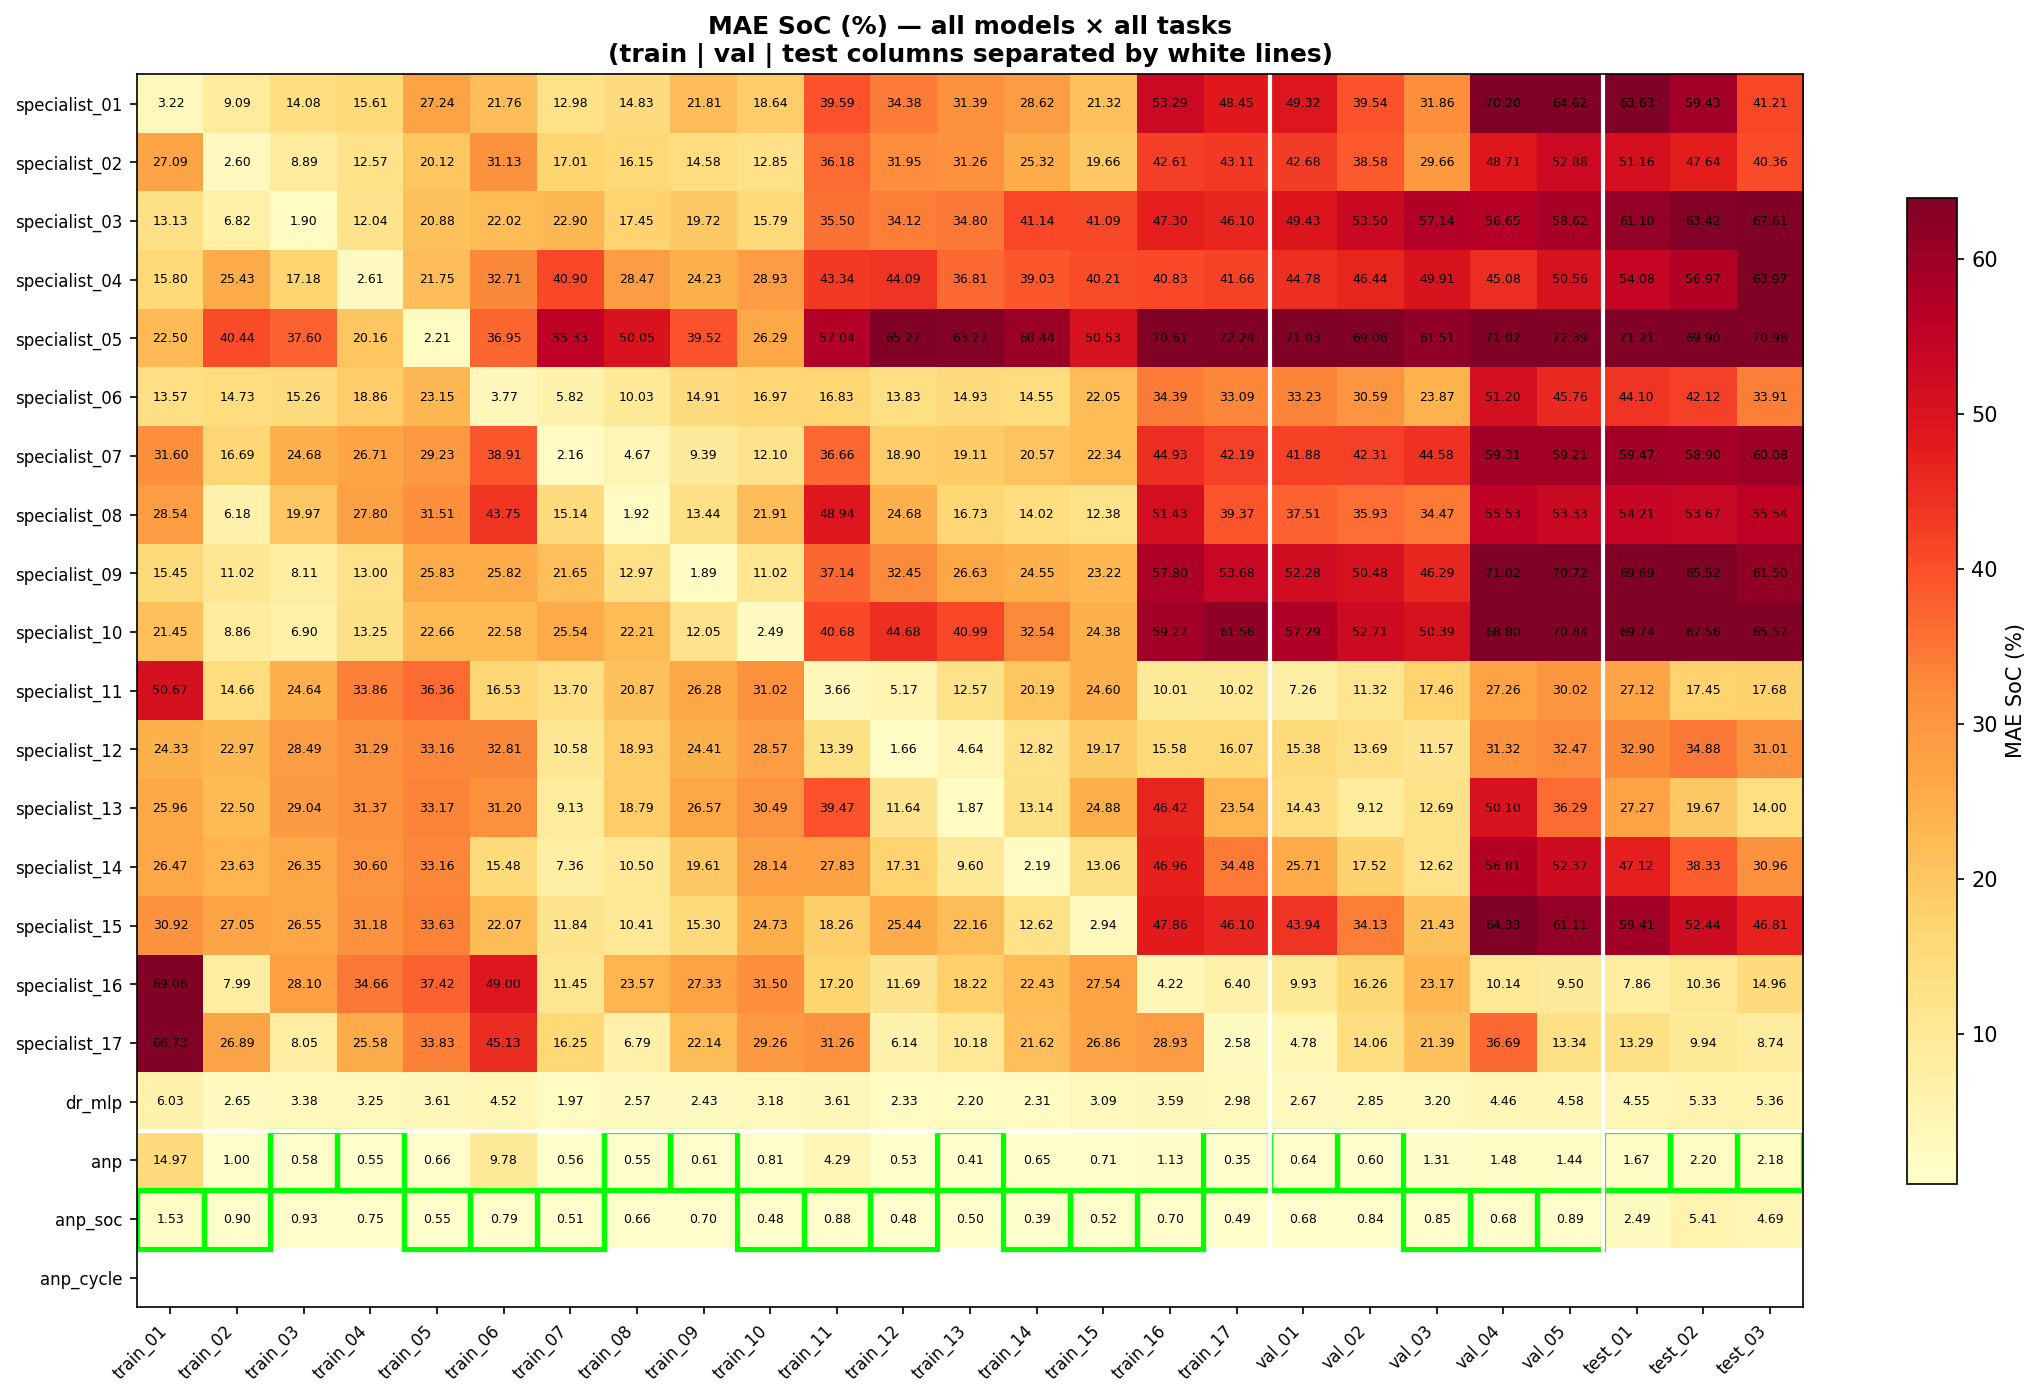
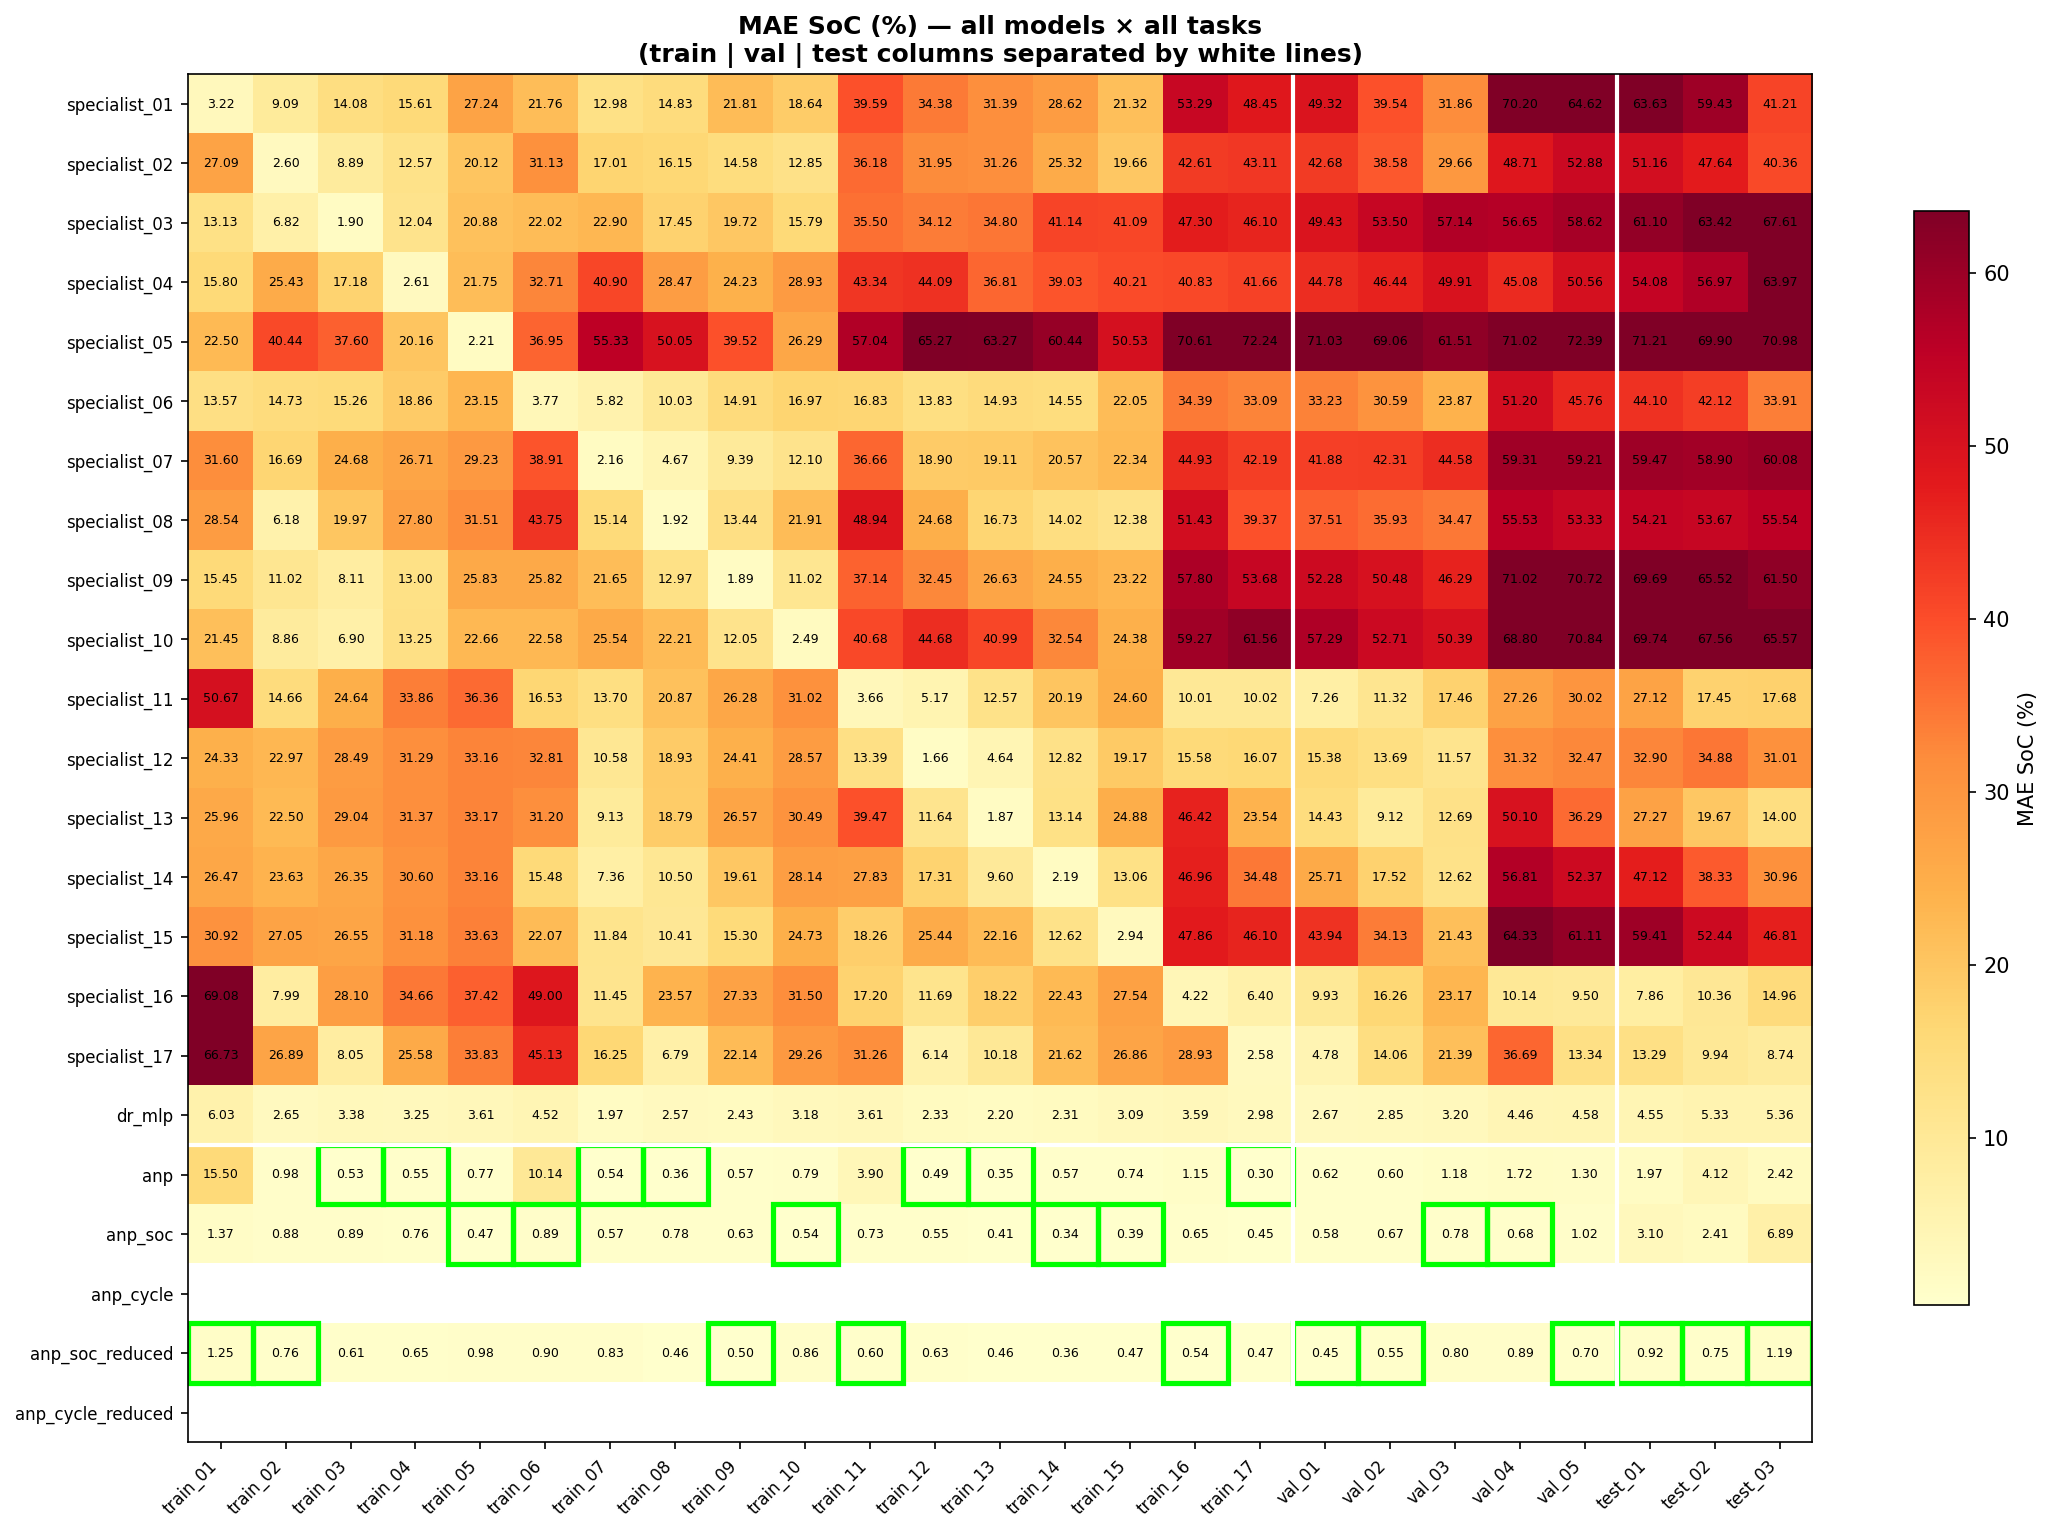
Update evaluation results and training utilities
- Updated binary image files for bar_cycle.png and bar_soc.png.
- Modified mae_Cycle.csv and mae_SoC_pct.csv to include new metrics and adjusted values for ANP and its variants.
- Enhanced mae_comparison.csv with updated values for ANP and added new rows for reduced feature sets.
- Updated summary.txt to reflect changes in ANP metrics and added entries for reduced feature sets.
- Updated binary image files for mae_cycle_heatmap.png and mae_soc_heatmap.png.
- Added new utility functions in train_utils.py for feature index retrieval and filtering.

diff --git a/csic/evaluate/evaluate.py b/csic/evaluate/evaluate.py
@@ -29,11 +29,13 @@ Outputs (saved to --out_dir, default ./validation/<timestamp>/):
 
 Usage:
     python evaluate.py \
-        --mlp_run       ../train/runs_mlp/20260511_121741 \
-        --anp_run       ../train/runs/anp_all_20260512_124715 \
-        --anp_soc_run   "../train/runs/anp_SoC(pct)_20260512_114601" \
-        --anp_cycle_run ../train/runs/anp_Cycle_20260512_114703 \
-        --data_dir      ../csic_real_synth_load/prepared_data
+        --mlp_run           ../train/runs_mlp/20260511_121741 \
+        --anp_run           ../train/runs/anp_all/20260512_124715 \
+        --anp_soc_run       ../train/runs/anp_SoC/20260512_114601 \
+        --anp_cycle_run     ../train/runs/anp_Cycle/20260512_114703 \
+        --anp_soc_reduced_run   ../train/runs/anp_SoC_reduced/20260513_110544 \
+        --anp_cycle_reduced_run ../train/runs/anp_Cycle_reduced/20260513_114323 \
+        --data_dir          ../csic_real_synth_load/prepared_data
 
 Location: csic/validation/evaluate.py
 ==============================================================================
@@ -71,6 +73,9 @@ from train.train_utils import (
     validate_targets,
     get_task_splits,
     sort_task_by_cycle,
+    REDUCED_FEATURE_SETS,
+    get_feature_indices,
+    filter_x,
 )
 
 # Import model architectures
@@ -242,24 +247,11 @@ def load_anp_model(
     all_target_cols:  List[str],
     device:           torch.device,
     label:            str = "anp",
-) -> Optional[Tuple[str, nn.Module, List[str]]]:
+) -> Optional[Tuple[str, nn.Module, List[str], Optional[List[str]]]]:
     """
-    Load an ANP checkpoint and detect which targets it was trained on.
-
-    Reads config.json for num_hidden, attn_dropout, and target_col.
-    Handles both dual-target and single-target checkpoints transparently.
-
-    Args:
-        run_dir:         Path to the run directory containing best.pt.
-        input_dim:       Number of input features (from the pkl).
-        all_target_cols: All target columns present in the data (e.g. ['SoC (%)', 'Cycle']). 
-                         Used to determine model output_dim when target_col is known.
-        device:          Torch device.
-        label:           Display label used in result tables and plots.
-
-    Returns:
-        (label, model, model_target_cols) tuple, or None if not found.
-        model_target_cols is the subset of all_target_cols this model predicts.
+    Load an ANP checkpoint and detect which targets and features it was trained on.
+    Returns (label, model, model_target_cols, feature_cols) or None if not found.
+    feature_cols is None for full-feature models, or a list of column names for reduced-feature models.
     """
     ckpt_path = run_dir / "best.pt"
     cfg_path  = run_dir / "config.json"
@@ -268,10 +260,10 @@ def load_anp_model(
         print(f"  ⚠  {label}: best.pt not found at {ckpt_path} — skipping")
         return None
 
-    # Read architecture params from config
     num_hidden   = 128
     attn_dropout = 0.1
-    target_col   = "all"   # default: dual-target
+    target_col   = "all"
+    use_reduced  = False
 
     if cfg_path.exists():
         with cfg_path.open() as f:
@@ -280,6 +272,7 @@ def load_anp_model(
                         or cfg_data.get("params", {}).get("num_hidden", 128))
         attn_dropout = cfg_data.get("attn_dropout", 0.1)
         target_col   = cfg_data.get("target_col", "all")
+        use_reduced  = cfg_data.get("use_reduced_features", False)
 
     # Determine which targets this model predicts
     if target_col == "all":
@@ -287,22 +280,19 @@ def load_anp_model(
     elif target_col in all_target_cols:
         model_target_cols = [target_col]
     else:
-        # Fallback: infer from checkpoint output_dim
-        ckpt = torch.load(ckpt_path, map_location="cpu")
-        # Peek at the decoder output layer weight shape
-        out_dim_key = [k for k in ckpt["model"] if "mean_projection" in k
-                       and "weight" in k]
-        if out_dim_key:
-            out_dim = ckpt["model"][out_dim_key[0]].shape[0]
-            model_target_cols = all_target_cols[:out_dim]
-        else:
-            model_target_cols = all_target_cols
+        raw = torch.load(ckpt_path, map_location="cpu")
+        out_keys = [k for k in raw["model"] if "mean_projection" in k and "weight" in k]
+        out_dim  = raw["model"][out_keys[0]].shape[0] if out_keys else len(all_target_cols)
+        model_target_cols = all_target_cols[:out_dim]
 
-    output_dim = len(model_target_cols)
+    # Determine which X features this model was trained on
+    feature_cols    = REDUCED_FEATURE_SETS.get(target_col) if use_reduced else None
+    model_input_dim = len(feature_cols) if feature_cols is not None else input_dim
+    output_dim      = len(model_target_cols)
 
     model = LatentModel(
         num_hidden=num_hidden,
-        input_dim=input_dim,
+        input_dim=model_input_dim,
         output_dim=output_dim,
         attn_dropout=attn_dropout,
     )
@@ -311,9 +301,10 @@ def load_anp_model(
     model.eval().to(device)
 
     val_mae = ckpt.get("val_MAE", ckpt.get("val_loss", "?"))
+    feat_str = f"reduced({model_input_dim})" if feature_cols else f"all({input_dim})"
     print(f"  ✓  {label:<22} targets={model_target_cols}  "
-          f"num_hidden={num_hidden}  val_MAE={val_mae}")
-    return (label, model, model_target_cols)
+          f"num_hidden={num_hidden}  features={feat_str}  val_MAE={val_mae}")
+    return (label, model, model_target_cols, feature_cols)
 
 
 # ==============================================================================
@@ -558,6 +549,8 @@ def run(
     anp_run_dir:     Optional[Path],
     anp_soc_run_dir: Optional[Path],
     anp_cycle_run_dir: Optional[Path],
+    anp_soc_reduced_run_dir: Optional[Path],
+    anp_cycle_reduced_run_dir: Optional[Path],
     data_dir:        str,
     out_dir:         Path,
     train_task_ids:  List[int],
@@ -610,6 +603,7 @@ def run(
     }
     print(f"   input_dim={input_dim}  output_dim={output_dim}  targets={target_cols}")
 
+    x_col_names = list(data["normalized_synth_datasets"][0][0].columns)
     # All 25 tasks evaluated
     all_task_ids = list(range(len(data["normalized_synth_datasets"])))
     all_tasks    = [
@@ -638,7 +632,7 @@ def run(
     # Each entry: (label, model, type, model_target_cols)
     # type ∈ {"mlp", "anp"}
     # model_target_cols: which targets the model predicts
-    all_models: List[Tuple[str, nn.Module, str, List[str]]] = []
+    all_models: List[Tuple[str, nn.Module, str, List[str], Optional[List[str]]]] = []
 
     # MLP Specialists
     specialists = load_mlp_specialists(
@@ -646,18 +640,18 @@ def run(
         n_specialists=len(train_task_ids),
     )
     for label, model in specialists:
-        all_models.append((label, model, "mlp", target_cols))
+        all_models.append((label, model, "mlp", target_cols, None))
 
     # DR-MLP
     dr = load_dr_mlp(mlp_run_dir, input_dim, output_dim, device)
     if dr:
-        all_models.append((dr[0], dr[1], "mlp", target_cols))
+        all_models.append((dr[0], dr[1], "mlp", target_cols, None))
 
     # ANP dual-target
     if anp_run_dir is not None:
         anp = load_anp_model(anp_run_dir, input_dim, target_cols, device, label="anp")
         if anp:
-            all_models.append((anp[0], anp[1], "anp", anp[2]))
+            all_models.append((anp[0], anp[1], "anp", anp[2], anp[3]))
 
     # ANP SoC-only
     if anp_soc_run_dir is not None:
@@ -665,7 +659,8 @@ def run(
             anp_soc_run_dir, input_dim, target_cols, device, label="anp_soc"
         )
         if anp_soc:
-            all_models.append((anp_soc[0], anp_soc[1], "anp", anp_soc[2]))
+            all_models.append((anp_soc[0], anp_soc[1], "anp", anp_soc[2], anp_soc[3]))
+
 
     # ANP Cycle-only
     if anp_cycle_run_dir is not None:
@@ -673,7 +668,27 @@ def run(
             anp_cycle_run_dir, input_dim, target_cols, device, label="anp_cycle"
         )
         if anp_cyc:
-            all_models.append((anp_cyc[0], anp_cyc[1], "anp", anp_cyc[2]))
+            all_models.append((anp_cyc[0], anp_cyc[1], "anp", anp_cyc[2], anp_cyc[3]))
+    
+    # ANP SoC-only — reduced features
+    if anp_soc_reduced_run_dir is not None:
+        anp_soc_r = load_anp_model(
+            anp_soc_reduced_run_dir, input_dim, target_cols,
+            device, label="anp_soc_reduced"
+        )
+        if anp_soc_r:
+            all_models.append((anp_soc_r[0], anp_soc_r[1], "anp",
+                                anp_soc_r[2], anp_soc_r[3]))
+
+    # ANP Cycle-only — reduced features
+    if anp_cycle_reduced_run_dir is not None:
+        anp_cyc_r = load_anp_model(
+            anp_cycle_reduced_run_dir, input_dim, target_cols,
+            device, label="anp_cycle_reduced"
+        )
+        if anp_cyc_r:
+            all_models.append((anp_cyc_r[0], anp_cyc_r[1], "anp",
+                                anp_cyc_r[2], anp_cyc_r[3]))
 
     print(f"\n  Total models loaded: {len(all_models)}")
 
@@ -683,14 +698,19 @@ def run(
     # results[model_label][task_label] = {col: mae}
     results: Dict[str, Dict[str, Dict[str, float]]] = {}
 
-    for m_label, model, m_type, m_target_cols in all_models:
+    for m_label, model, m_type, m_target_cols, feat_cols in all_models:
+        feat_idx = get_feature_indices(x_col_names, feat_cols)
         results[m_label] = {}
         for t_label, (X_ctx, y_ctx, X_tgt, y_tgt) in zip(task_labels, windows):
             if m_type == "mlp":
                 mae = eval_mlp(model, X_tgt, y_tgt, device, denorm_values, target_cols)
             else:
                 mae = eval_anp(
-                    model, X_ctx, y_ctx, X_tgt, y_tgt,
+                    model,
+                    filter_x(X_ctx, feat_idx),   # ← filtrado aquí
+                    y_ctx,
+                    filter_x(X_tgt, feat_idx),   # ← filtrado aquí
+                    y_tgt,
                     device, denorm_values, target_cols, m_target_cols
                 )
             results[m_label][t_label] = mae
@@ -709,7 +729,7 @@ def run(
         print(f"  {m_label:<22}  avg SoC MAE={soc_str}  avg Cycle MAE={cyc_str}")
 
     # ── Build DataFrames ──────────────────────────────────────────────────────
-    model_labels_ordered = [m for m, _, _, _ in all_models]
+    model_labels_ordered = [m for m, _, _, _, _ in all_models]
 
     soc_col   = "SoC (%)" if "SoC (%)" in target_cols else target_cols[0]
     cycle_col = "Cycle"   if "Cycle"   in target_cols else target_cols[-1]
@@ -858,6 +878,9 @@ def parse_args() -> argparse.Namespace:
     p.add_argument("--val_ids",   type=int, nargs="+", default=list(range(17, 22)))
     p.add_argument("--test_ids",  type=int, nargs="+", default=list(range(22, 25)))
 
+    p.add_argument("--anp_soc_reduced_run",   type=str, default=None, help="Path to SoC-only ANP run trained with reduced features")
+    p.add_argument("--anp_cycle_reduced_run", type=str, default=None, help="Path to Cycle-only ANP run trained with reduced features")
+
     return p.parse_args()
 
 
@@ -871,6 +894,8 @@ def main() -> None:
         anp_run_dir       = Path(args.anp_run)       if args.anp_run       else None,
         anp_soc_run_dir   = Path(args.anp_soc_run)   if args.anp_soc_run   else None,
         anp_cycle_run_dir = Path(args.anp_cycle_run) if args.anp_cycle_run else None,
+        anp_soc_reduced_run_dir   = Path(args.anp_soc_reduced_run)   if args.anp_soc_reduced_run   else None,
+        anp_cycle_reduced_run_dir = Path(args.anp_cycle_reduced_run) if args.anp_cycle_reduced_run else None,
         data_dir          = args.data_dir,
         out_dir           = out_dir,
         train_task_ids    = args.train_ids,

diff --git a/csic/train/train_utils.py b/csic/train/train_utils.py
@@ -746,3 +746,33 @@ def apply_feature_reduction(
     }
 
     return updated_data
+
+def get_feature_indices(
+    x_col_names:  List[str],
+    feature_cols: Optional[List[str]],
+) -> Optional[List[int]]:
+    """
+    Return the numpy column indices corresponding to feature_cols.
+    Returns None when feature_cols is None (no filtering needed).
+
+    Args:
+        x_col_names:  Ordered list of all X column names in the dataset.
+        feature_cols: Subset of column names to keep, or None.
+
+    Raises:
+        ValueError: if any name in feature_cols is absent from x_col_names.
+    """
+    if feature_cols is None:
+        return None
+    missing = [c for c in feature_cols if c not in x_col_names]
+    if missing:
+        raise ValueError(
+            f"Feature columns not found in data X: {missing}\n"
+            f"Check that REDUCED_FEATURE_SETS names match the pkl column names."
+        )
+    return [x_col_names.index(c) for c in feature_cols]
+
+
+def filter_x(X: np.ndarray, feat_idx: Optional[List[int]]) -> np.ndarray:
+    """Return X[:, feat_idx] if feat_idx is not None, else X unchanged."""
+    return X if feat_idx is None else X[:, feat_idx]
